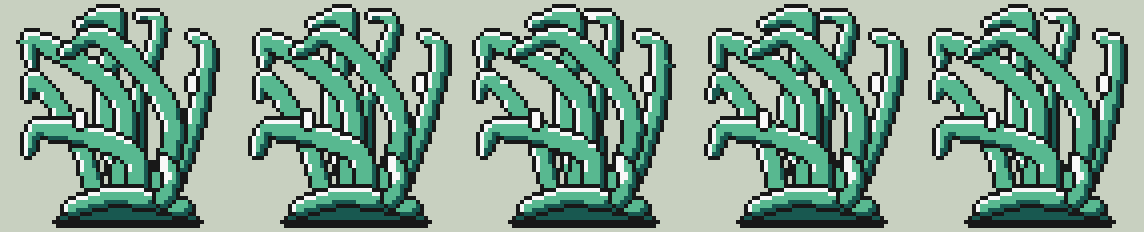
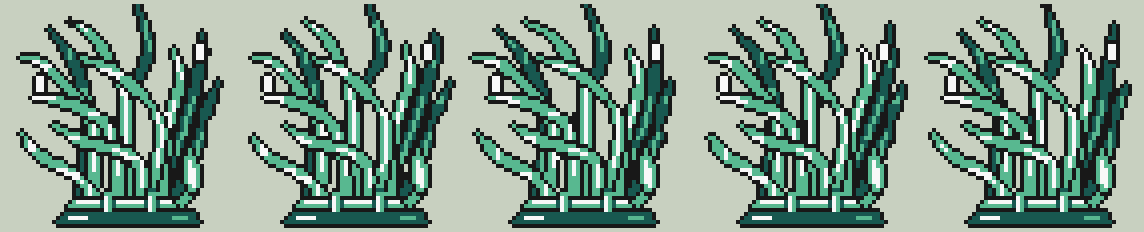
delegate(codex): PILOT revision, seagrass line, per the lead's review (flat ribbons, no tube ends, legible spathe)
Brief: a3b-pilot-seagrass-revise.md
Status: passed

diff --git a/tools/art/crystal/seagrass.py b/tools/art/crystal/seagrass.py
@@ -1,8 +1,8 @@
 """Crystal-rule Zostera marina: seagrass_shoot -> eelgrass.
 
-Shoot: BOBBING, five short, flat ribbons bending left from a creeping node.
+Shoot: BOBBING, eight short, flat ribbons bending left from a creeping node.
 Adult: LOOMING, a dense meadow of ribbons, folded over by the current.
-Sea green faces / deep teal-green shade, black outlines, white wet-leaf rims.
+Sea green faces / deep teal-green shade, black outlines, white lengthwise midrib highlights.
 The small basal flowering spathe is a sheath, never a showy flower or face.
 Only the ribbons move: a travelling wave grows from the rooted base to tip;
 the rhizome, sand contact and spathe remain fixed through the 64-tick intro.
@@ -16,8 +16,8 @@ import math
 
 import numpy as np
 
-from _d_kit import (BLACK, WHITE, T, Spr, bez, tones, rim_white, moving_boxes,
-                    icon_arr, hop, preview, stats)
+from _d_kit import (BLACK, WHITE, T, Spr, bez, tones, moving_boxes,
+                    hop, preview, stats)
 
 TOOL = "tools/art/crystal/seagrass.py"
 IDS = ["seagrass_shoot", "eelgrass"]
@@ -25,88 +25,135 @@ PAL = [BLACK, "#185850", "#58b890", WHITE]
 SPORT = [BLACK, "#286048", "#80b868", WHITE]
 SPAL = tuple(PAL[1:])
 
-# Back-to-front ribbons: base, curved body, and rounded, current-bent tip.
+# Back-to-front flat blades: control points, coloured width (2px plus the outline),
+# visible face tone, and optional twist centre along the blade.
+# Tips continue the blade's direction; none turn back into a closed curl.
 SHOOT = [
-    ([(35, 49), (44, 40), (50, 27), (44, 23)], 6.5),
-    ([(31, 48), (35, 32), (42, 18), (37, 12)], 7.0),
-    ([(27, 49), (18, 41), (11, 32), (8, 33)], 7.5),
-    ([(32, 49), (30, 31), (30, 12), (20, 11)], 8.0),
-    ([(34, 49), (39, 35), (21, 22), (11, 23)], 8.0),
+    ([(25, 49), (24, 33), (22, 19), (15, 14)], 2.2, 1, None),
+    ([(33, 49), (37, 32), (45, 25), (45, 17)], 2.2, 1, 0.58),
+    ([(29, 49), (25, 35), (13, 30), (8, 27)], 2.2, 1, None),
+    ([(37, 49), (44, 38), (47, 32), (50, 24)], 2.2, 1, None),
+    ([(30, 49), (34, 30), (34, 16), (27, 9)], 2.2, 2, 0.62),
+    ([(24, 49), (18, 39), (10, 36), (7, 32)], 2.2, 2, None),
+    ([(35, 49), (36, 31), (20, 18), (12, 18)], 2.2, 2, None),
+    ([(32, 49), (34, 40), (22, 31), (15, 30)], 2.2, 2, 0.55),
 ]
 ADULT = [
-    ([(40, 50), (47, 32), (51, 12), (47, 8)], 7.0),
-    ([(35, 50), (33, 27), (39, 6), (34, 2.8)], 6.0),
-    ([(24, 50), (18, 33), (8, 19), (6, 23)], 7.0),
-    ([(31, 50), (25, 26), (28, 4), (19, 5)], 8.0),
-    ([(29, 50), (29, 24), (8, 9), (7, 15)], 8.0),
-    ([(37, 50), (42, 29), (26, 9), (15, 12)], 8.0),
-    ([(34, 50), (31, 37), (10, 31), (6, 37)], 8.5),
+    ([(19, 50), (21, 28), (17, 14), (11, 6)], 2.2, 1, None),
+    ([(28, 50), (30, 27), (36, 12), (33, -1)], 2.2, 1, 0.56),
+    ([(37, 50), (45, 31), (49, 15), (50, 5)], 2.2, 1, None),
+    ([(42, 50), (48, 37), (50, 28), (54, 19)], 2.2, 1, 0.64),
+    ([(22, 50), (22, 30), (11, 16), (3, 13)], 2.2, 2, None),
+    ([(31, 50), (30, 23), (23, 9), (16, 4)], 2.2, 2, 0.63),
+    ([(39, 50), (41, 31), (44, 19), (42, 10)], 2.2, 2, None),
+    ([(29, 50), (26, 31), (13, 24), (6, 24)], 2.2, 2, None),
+    ([(36, 50), (39, 30), (29, 18), (18, 13)], 2.2, 2, 0.53),
+    ([(24, 50), (18, 43), (9, 38), (4, 32)], 2.2, 2, None),
+    ([(34, 50), (33, 39), (19, 34), (12, 30)], 2.2, 2, None),
 ]
 
 # Anticipation, wave at the lower blades, wave arriving at tips, rebound.
 WAVES = [(0.0, 0.0), (-1.2, 0.4), (1.8, 1.6), (1.5, 2.8), (-0.8, 3.8)]
 
 
-def ribbon(s, ctrl, width, wave=(0.0, 0.0), lag=0.0, rim=0.72):
-    """Parallel-edged strap leaf, tapering only at its rounded last fifth.
+def ribbon(s, ctrl, width, face=2, twist=None, wave=(0.0, 0.0), lag=0.0):
+    """Flat, uncapped strap with a fine point and a lengthwise midrib.
 
-    A smooth phase-shifted lateral displacement avoids translating rigid
-    blocks. The bottom twelve pixels stay rooted; successive leaves lag.
+    A twist pinches the face to a one-pixel edge for several pixels before
+    widening again. Flat colour, rather than a shaded cylindrical band,
+    keeps the broad face distinct from that narrow edge. The current wave
+    grows above the rooted basal twelve pixels and lags between blades.
     """
     amp, phase = wave
-    path = bez(ctrl, 90)
+    path = bez(ctrl, 100)
     path = [(x + amp * min(1.0, max(0.0, (47 - y) / 32))
              * math.sin(phase - 3.0 * t + lag), y)
             for t, (x, y) in zip(np.linspace(0, 1, len(path)), path)]
-    m = s.stroke(path, lambda t: width * (1 - 0.48 * max(0, (t - 0.78) / 0.22)))
-    pid = s.part(m, base=2, k=2, sh_tone=1, line=0)
-    rim_white(s, m, pid, rim)
+
+    def blade_width(t):
+        taper = min(1.0, max(0.0, (1.0 - t) / 0.20))
+        edge = 1.0
+        if twist is not None:
+            edge = 1 - 0.73 * max(0.0, 1 - abs(t - twist) / 0.10)
+        return width * taper * edge
+
+    m = s.stroke(path, blade_width, cap=False)
+    pid = s.part(m, base=face, k=0, line=0)
+    # Short, straight midrib highlights run within the flat face. The rib
+    # stops before both the twist and the fine tip: no ring or tube opening.
+    for start, end in ((0.13, 0.49), (0.66, 0.85)):
+        segment = [p for t, p in zip(np.linspace(0, 1, len(path)), path)
+                   if start <= t <= end and
+                   (twist is None or abs(t - twist) > 0.12)]
+        if len(segment) > 1:
+            s.decal(s.line1(segment), 3 if face == 2 else 2, on=[pid])
     return pid
 
 
 def node(s, adult=False):
-    """A creeping rhizome lying on a shallow mound of green-lit sand.
+    """A short horizontal rhizome with two collars resting on flat sand.
 
-    No separate sand hue is available: the dark tone carries the substrate,
-    with a few connected white grain rims rather than scattered dot noise.
+    The palette's dark tone carries sand; connected white grain highlights
+    and an irregular shallow edge separate it from the mid-tone rhizome.
+    Node collars meet its outline, never making enclosed dark spots.
     """
     left, right = (12, 49) if adult else (17, 46)
     bottom = 55 if adult else 54
-    m = s.poly([(left, bottom), (left + 4, 51), (24, 50), (32, 49),
-                (right - 3, 51), (right, bottom)])
-    pid = s.part(m, base=1, k=1, sh_tone=0, line=0)
-    s.decal(s.line1([(left + 4, 52), (left + 8, 52)]), 3, on=[pid])
-    m = s.stroke(bez([(left + 5, 51), (29, 48), (right - 4, 51)], 40), 4)
-    pid = s.part(m, base=2, k=1, sh_tone=1, line=0)
-    rim_white(s, m, pid, 0.6)
-    # Vertical node collars follow the rhizome; no horizontal mouth seam.
-    for x in (26, 36) if adult else (29,):
-        s.decal(s.line1([(x, 49), (x + 1, 51)]), 1, on=[pid])
+    m = s.poly([(left, bottom), (left + 3, 52), (left + 9, 51),
+                (right - 6, 51), (right - 2, 52), (right, bottom)])
+    pid = s.part(m, base=1, k=0, line=0)
+    s.decal(s.line1([(left + 4, 53), (left + 8, 53)]), 3, on=[pid])
+    s.decal(s.line1([(right - 7, 53), (right - 4, 53)]), 2, on=[pid])
+    m = s.poly([(left + 5, 49), (right - 5, 49),
+                (right - 4, 51), (left + 4, 51)])
+    pid = s.part(m, base=2, k=0, line=0)
+    s.decal(s.line1([(left + 6, 49), (right - 6, 49)]), 3, on=[pid])
+    for x in (25, 36) if adult else (26, 36):
+        m = s.poly([(x, 47), (x + 2, 47), (x + 2, 52), (x, 52)])
+        collar = s.part(m, base=2, k=0, line=1)
+        s.decal(s.line1([(x, 48), (x, 51)]), 3, on=[collar])
 
 
 def spathe(s):
-    m = s.stroke(bez([(40, 49), (42, 44), (40, 39)], 30), (4.0, 2.6))
-    pid = s.part(m, base=2, k=1, sh_tone=1, line=0)
-    rim_white(s, m, pid, 0.55)
-    # Pale lengthwise rim of the enclosed flowering sheath.
-    s.decal(s.line1([(40, 40), (41, 43)]), 3, on=[pid])
+    """A pointed pale sheath set apart on a short basal flowering stalk."""
+    stem = s.stroke([(44, 50), (47, 47)], 1.5, cap=False)
+    s.part(stem, base=2, k=0, line=0)
+    m = s.poly([(46, 47), (45, 42), (46, 35), (48, 39),
+                (49, 43), (48, 47)])
+    pid = s.part(m, base=2, k=0, line=0)
+    highlight = s.poly([(46, 39), (47, 40), (48, 44), (47, 46), (46, 43)])
+    s.decal(highlight, 3, on=[pid])
+
+
+def ribbon_tones(s, **kwargs):
+    """Close single-pixel pinholes where outlined ribbons cross."""
+    arr = tones(s, **kwargs)
+    opaque = arr != T
+    enclosed = np.ones((arr.shape[0] - 2, arr.shape[1] - 2), bool)
+    for dy in range(3):
+        for dx in range(3):
+            if (dx, dy) != (1, 1):
+                enclosed &= opaque[dy:dy + enclosed.shape[0], dx:dx + enclosed.shape[1]]
+    middle = arr[1:-1, 1:-1]
+    middle[(middle == T) & enclosed] = 0
+    return arr
 
 
 def front(sid, frame=0):
     s = Spr(56, 56, SPAL)
     adult = sid == "eelgrass"
     leaves = ADULT if adult else SHOOT
-    for i, (ctrl, width) in enumerate(leaves):
-        ribbon(s, ctrl, width * (0.54 if adult else 0.76), WAVES[frame], lag=i * 0.18)
+    for i, (ctrl, width, face, twist) in enumerate(leaves):
+        ribbon(s, ctrl, width, face, twist, WAVES[frame], lag=i * 0.18)
     node(s, adult)
     if adult:
         spathe(s)
         # Two tiny oxygen bubbles, attached to different leaf edges; neither
         # has a dark centre or a paired eye-like placement.
-        for x, y in ((47, 20), (19, 29)):
+        for x, y in ((49, 12), (9, 20)):
             m = s.ellipse(x, y, 1.2, 1.6)
             s.part(m, base=3, k=0, line=0)
-    return tones(s)
+    return ribbon_tones(s)
 
 
 def front_frames(sid):
@@ -115,43 +162,61 @@ def front_frames(sid):
     for f in fs[1:]:
         f[47:] = fs[0][47:]
         if sid == "eelgrass":
-            f[38:47, 38:45] = fs[0][38:47, 38:45]
+            f[34:47, 44:51] = fs[0][34:47, 44:51]
     return fs
 
 
 def back(sid):
-    """Close view into the meadow: wide straps cropped through their bases."""
+    """Overlapping thin ribbon faces viewed from behind, cropped at the base."""
     s = Spr(48, 48, SPAL)
     paths = [
-        ([(8, 56), (5, 29), (9, 6), (3, 8)], 9),
-        ([(35, 56), (42, 32), (40, 8), (45, 11)], 10),
-        ([(23, 56), (20, 28), (27, 3), (19, 4)], 11),
-        ([(18, 56), (21, 31), (4, 17), (3, 22)], 11),
-        ([(31, 56), (36, 28), (25, 11), (13, 13)], 12),
+        ([(27, 55), (20, 34), (29, 16), (34, 9)], 2.2, 1, None),
+        ([(3, 55), (3, 42), (6, 34), (7, 29)], 2.2, 1, None),
+        ([(7, 55), (9, 28), (12, 12), (17, 6)], 2.2, 1, None),
+        ([(36, 55), (39, 30), (36, 14), (31, 4)], 2.2, 1, None),
+        ([(18, 55), (14, 32), (18, 13), (23, 1)], 2.2, 1, 0.64),
+        ([(28, 55), (31, 30), (37, 21), (43, 18)], 2.2, 1, None),
+        ([(13, 55), (9, 34), (5, 25), (2, 18)], 2.2, 1, None),
+        ([(40, 55), (43, 36), (44, 19), (46, 10)], 2.2, 2, 0.57),
+        ([(24, 55), (26, 27), (24, 11), (28, 3)], 2.2, 2, None),
+        ([(10, 55), (16, 34), (13, 20), (8, 11)], 2.2, 2, 0.64),
+        ([(34, 55), (31, 30), (22, 20), (16, 15)], 2.2, 2, None),
+        ([(20, 55), (17, 39), (8, 30), (3, 25)], 2.2, 2, None),
     ]
     if sid == "eelgrass":
-        paths.insert(1, ([(39, 56), (35, 38), (46, 27), (43, 22)], 10))
-    for ctrl, w in paths:
-        ribbon(s, ctrl, w * (0.76 if sid == "eelgrass" else 0.68), rim=0.64)
-    return tones(s, open_bottom=True)
+        paths.insert(3, ([(33, 55), (25, 35), (30, 17), (37, 9)], 2.2, 1, None))
+        paths.append(([(29, 55), (33, 41), (40, 34), (43, 27)], 2.2, 2, 0.56))
+    for ctrl, width, face, twist in paths:
+        ribbon(s, ctrl, width, face, twist)
+    return ribbon_tones(s, open_bottom=True)
 
 
-ICONS = {
-    "seagrass_shoot": [
-        "......kkk.......", ".....k232k.kk...", ".....k22k.k22k..",
-        "..kk.k22kk22k...", ".k23kk22k22k....", ".k22k.k2222k....",
-        "..k22kk2232k....", "...k22k232k.....", "....k22222k.....",
-        ".....k2222k.....", "...kkk2112kkk...", "..k1122222111k..",
-        "...kkkkkkkkkk...",
-    ],
-    "eelgrass": [
-        ".....kkk........", "....k232k.kkk...", "..kkk22k.k232k..",
-        ".k23k22kk22k2k..", ".k22k222k22k2k..", "..k22223k22k2k..",
-        ".kkk2223k22k2k..", "k232k222k2222k..", "k22k2222k2222k..",
-        ".k22k222k2232k..", "..k22222k232k...", "...k2222222k....",
-        "..kkk211122kkk..", ".k111222222111k.", "..kkkkkkkkkkkk..",
-    ],
-}
+def icon(sid):
+    """Miniature pointed ribbons with a basal rhizome and pale adult sheath."""
+    s = Spr(16, 16, SPAL)
+    adult = sid == "eelgrass"
+    paths = [
+        ([(6, 13), (5, 8), (5, 4), (3, 2)], 1.4, 1, None),
+        ([(10, 13), (12, 8), (12, 5), (13, 3)], 1.3, 1, None),
+        ([(8, 13), (9, 7), (9, 3), (7, 0 if adult else 2)], 1.7, 2, None),
+        ([(7, 13), (5, 9), (3, 8), (1, 6)], 1.7, 2, None),
+        ([(9, 13), (10, 9), (7, 6), (5, 5)], 1.6, 2, None),
+    ]
+    if adult:
+        paths.insert(1, ([(7, 13), (6, 8), (3, 6), (1, 4)], 1.5, 1, None))
+    for ctrl, width, face, twist in paths:
+        ribbon(s, ctrl, width, face, twist)
+    sand = s.poly([(2, 14), (4, 13), (12, 13), (14, 14)])
+    s.part(sand, base=1, k=0, line=0)
+    root = s.stroke([(4, 13), (12, 13)], 1.5, cap=False)
+    pid = s.part(root, base=2, k=0, line=0)
+    s.decal(s.line1([(5, 13), (7, 13)]), 3, on=[pid])
+    if adult:
+        sheath = s.stroke([(12, 12), (12, 10), (11, 8)], (1.6, 0.0), cap=False)
+        pid = s.part(sheath, base=2, k=0, line=0)
+        s.decal(s.line1([(12, 10), (12, 11)]), 3, on=[pid])
+    return tones(s)
+
 
 ANIM = {"intro": [[0, 8], [1, 12], [2, 8], [3, 16], [4, 12], [0, 8]],
         "idle": [[0, 140], [1, 12], [0, 8]]}
@@ -160,17 +225,38 @@ ANIM = {"intro": [[0, 8], [1, 12], [2, 8], [3, 16], [4, 12], [0, 8]],
 def render():
     out = {}
     for sid in IDS:
-        icon = icon_arr(ICONS[sid])
-        out[sid] = (front_frames(sid), back(sid), [icon, hop(icon)])
+        small = icon(sid)
+        out[sid] = (front_frames(sid), back(sid), [small, hop(small)])
     return out
+
+
+def review_layout(art):
+    """The lead's compact front/back/icon arrangement at native size and 3x."""
+    from pathlib import Path
+    from PIL import Image
+    from kit import to_rgba
+
+    folder = Path(__file__).resolve().parent.parent / "review"
+    folder.mkdir(exist_ok=True)
+    for scale, filename in ((1, "seagrass_1x.png"), (3, "seagrass_lead_layout.png")):
+        sheet = Image.new("RGB", (256 * scale, 56 * scale), (200, 208, 200))
+        for n, sid in enumerate(IDS):
+            fs, b, icons = art[sid]
+            for x, arr in ((0, fs[0]), (56, b), (104, icons[0])):
+                im = Image.fromarray(to_rgba(arr, PAL), "RGBA")
+                im = im.resize((im.width * scale, im.height * scale), Image.Resampling.NEAREST)
+                sheet.paste(im, ((128 * n + x) * scale, 0), im)
+        sheet.save(folder / filename)
 
 
 def build():
     from kit import write_species, intro_strip
-    for sid, (fs, b, icons) in render().items():
-        pose = ("BOBBING: five short ribbons, their tips bent toward the foe, "
+    art = render()
+    review_layout(art)
+    for sid, (fs, b, icons) in art.items():
+        pose = ("BOBBING: eight thin tapered ribbons, their tips bent toward the foe, "
                 "rising from a creeping rhizome node on sand." if sid == IDS[0] else
-                "LOOMING: a dense meadow clump of long flat ribbons arching left, "
+                "LOOMING: a dense meadow clump of thin twisting flat ribbons arching left, "
                 "a small basal flowering spathe and two tiny oxygen bubbles.")
         write_species(sid, palette=PAL, sport=SPORT, front=fs, back=[b], icon=icons,
                       anim=ANIM, moving=moving_boxes(fs), tool=TOOL,

diff --git a/docs/SPORTS.md b/docs/SPORTS.md
@@ -127,6 +127,6 @@ Chapter 6 seagrass line (set in `tools/art/crystal/seagrass.py`; palettes are da
 | Species | Sport | Real cultivar / reference | Sport palette (dark, mid, light) |
 |---|---|---|---|
 | seagrass_shoot | warmer green foliage (natural variation; no named colour form identified) | Zostera marina. No named cultivar or botanical colour form was identified in the consulted references. The sport interprets ordinary green foliage with a modest warmer green shift; it does not claim a named or genetically stable sport. See references below. | `#286048 #80b868 #f8f8f8` |
-| eelgrass | warmer green foliage (natural variation; no named colour form identified) | Zostera marina, the same natural green variation as the shoot; no named colour form identified. White wet-leaf rims and oxygen-bubble highlights stay white. | `#286048 #80b868 #f8f8f8` |
+| eelgrass | warmer green foliage (natural variation; no named colour form identified) | Zostera marina, the same natural green variation as the shoot; no named colour form identified. White midrib, sheath and oxygen-bubble highlights stay white. | `#286048 #80b868 #f8f8f8` |
 
 References: the [USDA NRCS eelgrass fact sheet](https://plants.usda.gov/DocumentLibrary/factsheet/pdf/fs_zoma.pdf) describes the creeping rhizome, rounded ribbon leaves and reproductive spathes. [Fonseca & Uhrin, Marine Fisheries Review 71(3)](https://spo.nmfs.noaa.gov/sites/default/files/pdf-content/MFR/mfr713/mfr7134.pdf) describes dark green foliage. [Dennison & Alberte, photosynthetic responses to light intensity](https://pubmed.ncbi.nlm.nih.gov/28311224/) measured changes in leaf chlorophyll under different light conditions; the particular warmer green palette is an artistic interpretation, not a documented named form.
